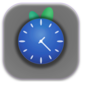
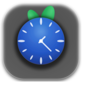
Updates

diff --git a/pro.html b/pro.html
@@ -14,10 +14,11 @@
     <title>Pomodoro Pro - Ultimate Focus Timer</title>
 
     <!-- Icons -->
+    <link rel="icon" type="image/x-icon" href="favicon.ico">
     <link rel="apple-touch-icon" href="icon-192.png">
     <link rel="apple-touch-icon" sizes="180x180" href="icon-192.png">
     <link rel="icon" type="image/png" sizes="32x32" href="icon-192.png">
-    <link rel="icon" type="image/png" sizes="16x16" href="icon-192.png">
+    <link rel="icon" type="image/png" sizes="16x16" href="icon-96.png">
     <link rel="icon" type="image/png" sizes="192x192" href="icon-192.png">
     <link rel="icon" type="image/png" sizes="512x512" href="icon-512.png">
     <link rel="manifest" href="pro-manifest.json">
@@ -793,7 +794,16 @@
             <!-- Header -->
             <header class="header glass">
                 <h1>
-                    <img src="icon-192.png" alt="Pomodoro" style="width: 40px; height: 40px; vertical-align: middle; margin-right: 10px; border-radius: 8px;"> Pomodoro Pro
+                    <img src="icon-192.png" alt="Pomodoro Pro" style="
+                        width: 40px;
+                        height: 40px;
+                        vertical-align: middle;
+                        margin-right: 10px;
+                        border-radius: 10px;
+                        object-fit: contain;
+                        object-position: center;
+                        box-shadow: 0 2px 8px rgba(0, 0, 0, 0.2);
+                    "> Pomodoro Pro
                     <span class="level-badge" id="level-display">Level 1</span>
                 </h1>
                 <div class="controls-row">

diff --git a/pro-sw.js b/pro-sw.js
@@ -1,5 +1,5 @@
 // Pomodoro Pro Service Worker - iOS Safari Compatible
-const CACHE_NAME = 'pomodoro-pro-v6';
+const CACHE_NAME = 'pomodoro-pro-v7';
 const urlsToCache = [
   '/pomodoro-pro/pro.html',
   '/pomodoro-pro/pro-manifest.json',
